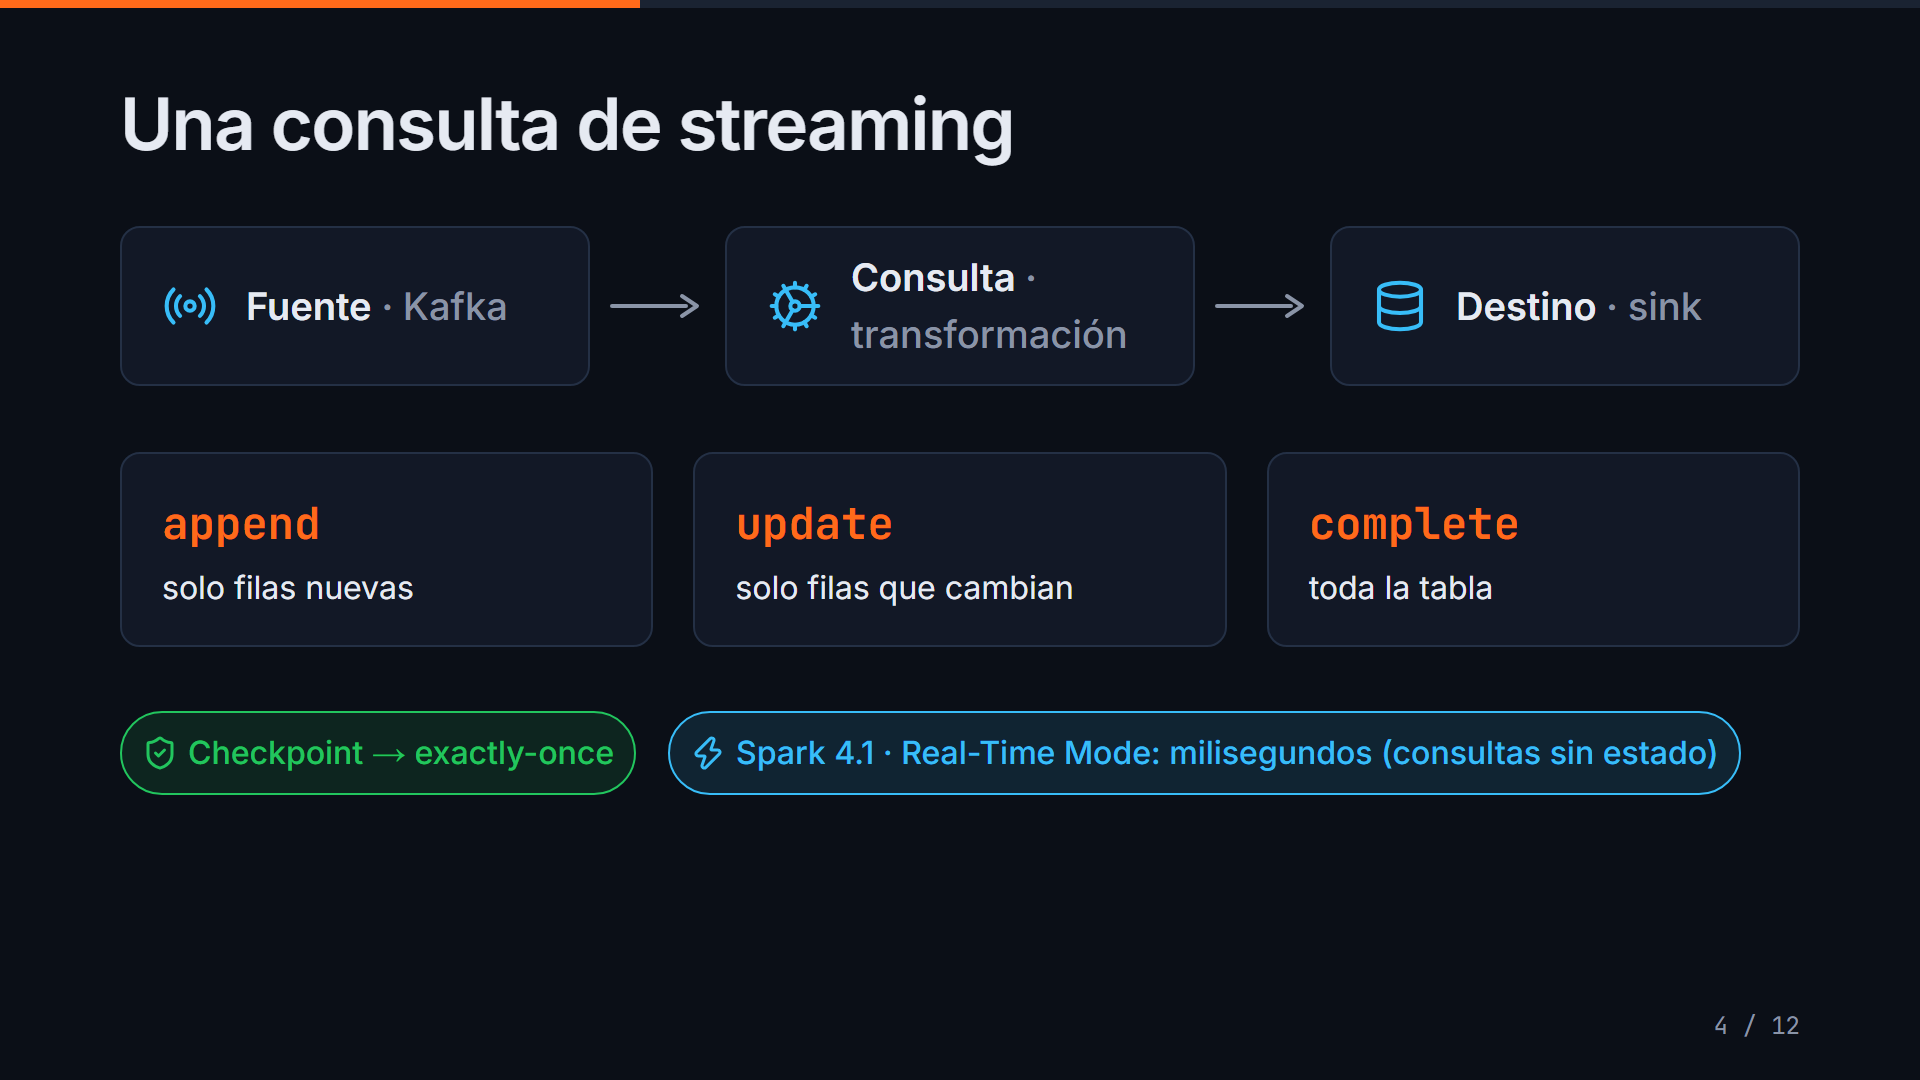
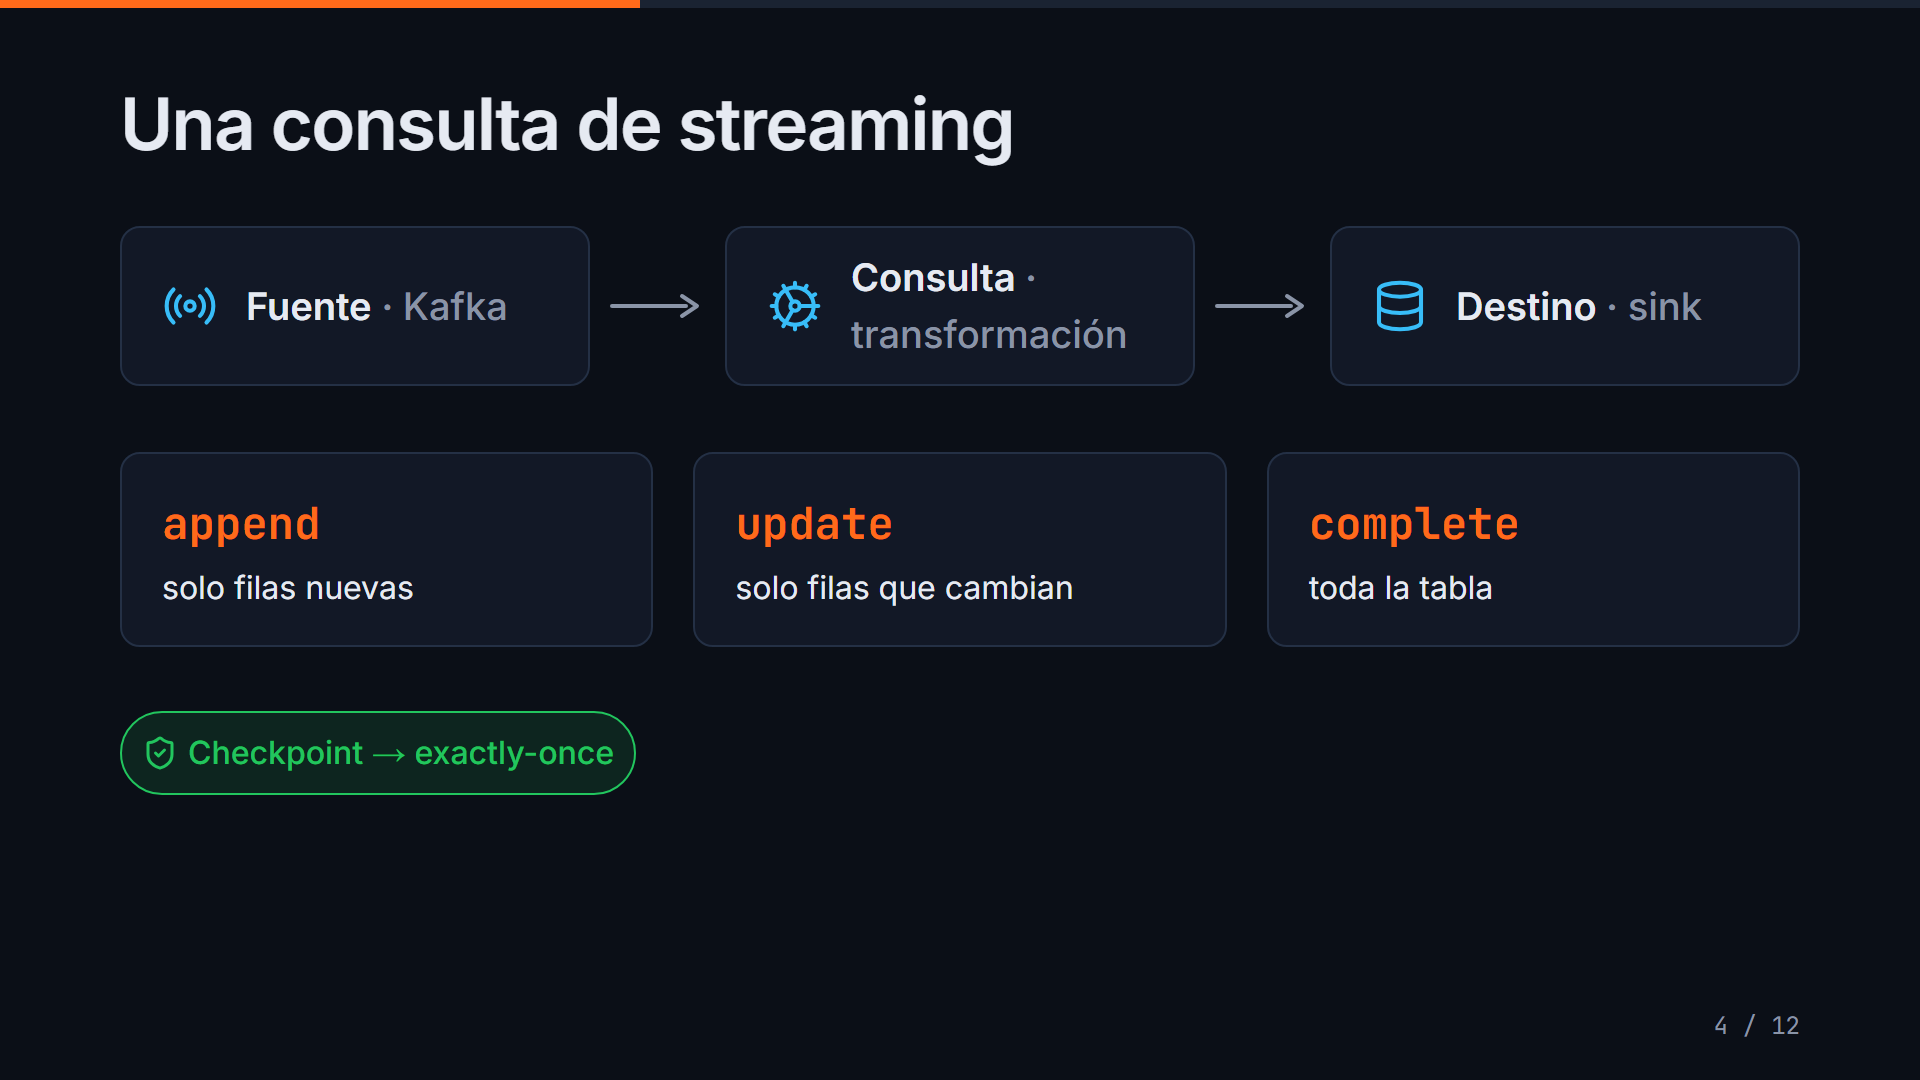
Slide 4: remove the Spark 4.1 Real-Time Mode badge and note
Step 3 now shows only the "Checkpoint → exactly-once" badge, and the
speaker notes end at "…cada evento cuenta exactamente una vez."
Slide 4 keeps its 3 steps. Screenshot regenerated.

Changed region(s): [[0.3438, 0.6417, 0.9062, 0.7333]]

diff --git a/src/content/slides.ts b/src/content/slides.ts
@@ -62,7 +62,7 @@ export const slides: readonly SlideDef[] = [
     steps: 3,
     component: "ConsultaStreaming",
     notes:
-      "[→] Una consulta tiene una fuente, normalmente Kafka, una transformación y un destino. [→] El output mode decide qué se escribe: solo lo nuevo, solo lo que cambia o toda la tabla. [→] El checkpoint guarda el progreso y el estado: si la aplicación se cae, continúa donde lo dejó y cada evento cuenta exactamente una vez. Y desde Spark 4.1, el Real-Time Mode baja la latencia a milisegundos en consultas sin estado.",
+      "[→] Una consulta tiene una fuente, normalmente Kafka, una transformación y un destino. [→] El output mode decide qué se escribe: solo lo nuevo, solo lo que cambia o toda la tabla. [→] El checkpoint guarda el progreso y el estado: si la aplicación se cae, continúa donde lo dejó y cada evento cuenta exactamente una vez.",
   },
   {
     id: 5,

diff --git a/src/components/slides/ConsultaStreaming.tsx b/src/components/slides/ConsultaStreaming.tsx
@@ -1,6 +1,6 @@
 "use client";
 
-import { Cog, Database, Radio, ShieldCheck, Zap, type LucideIcon } from "lucide-react";
+import { Cog, Database, Radio, ShieldCheck, type LucideIcon } from "lucide-react";
 import { Reveal } from "@/components/ui/Reveal";
 import { ArrowRightLine, Card, Content, Pill, SlideTitle } from "@/components/ui/primitives";
 import type { SlideProps } from "./types";
@@ -54,10 +54,6 @@ export function ConsultaStreaming({ step }: SlideProps) {
           <Pill tone="ok" className="py-[16px] text-[32px]">
             <ShieldCheck size={36} aria-hidden />
             Checkpoint → exactly-once
-          </Pill>
-          <Pill tone="info" className="py-[16px] text-[32px]">
-            <Zap size={36} aria-hidden />
-            Spark 4.1 · Real-Time Mode: milisegundos (consultas sin estado)
           </Pill>
         </Reveal>
       </Content>
